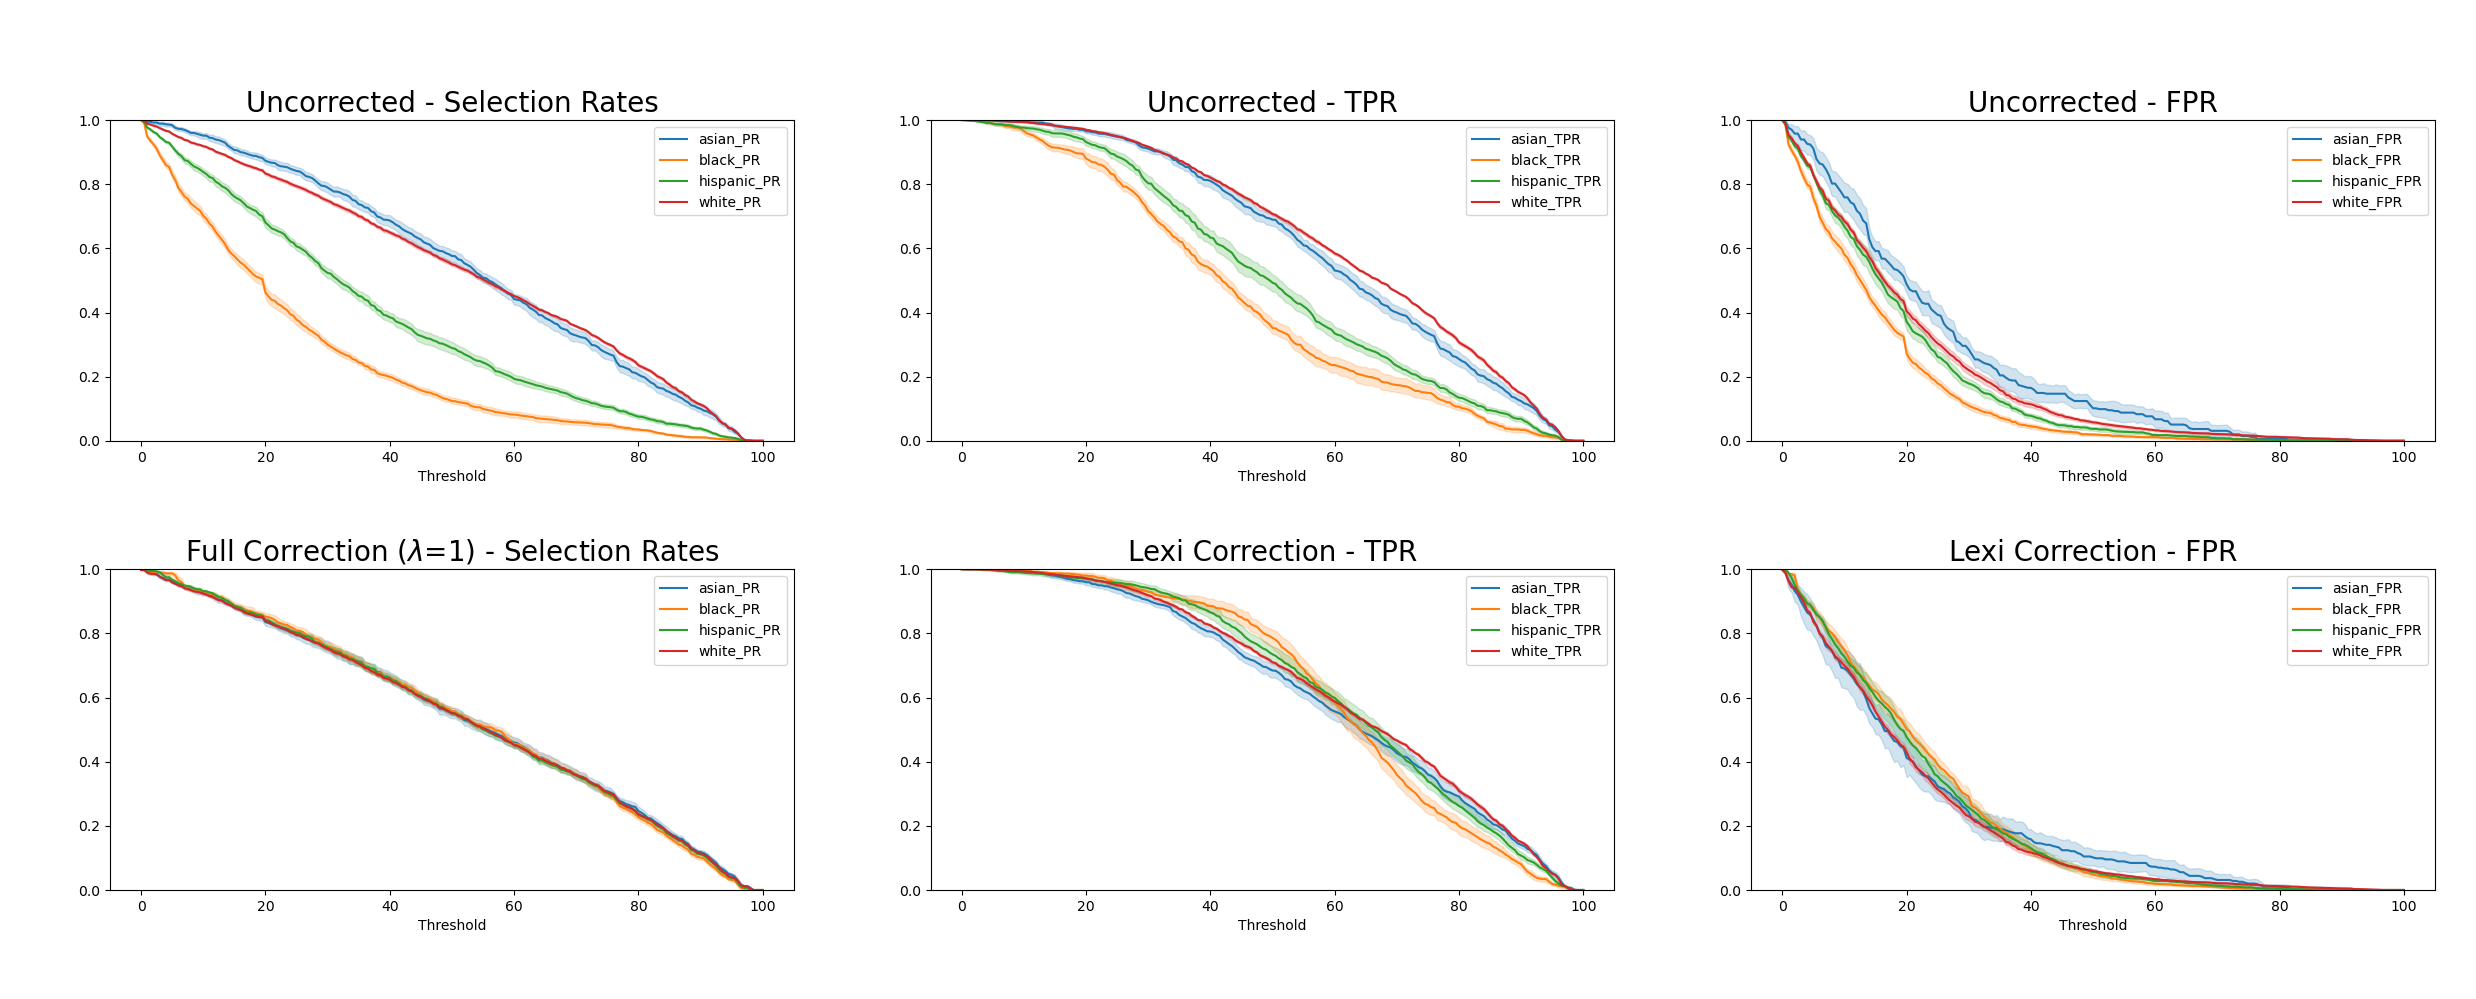
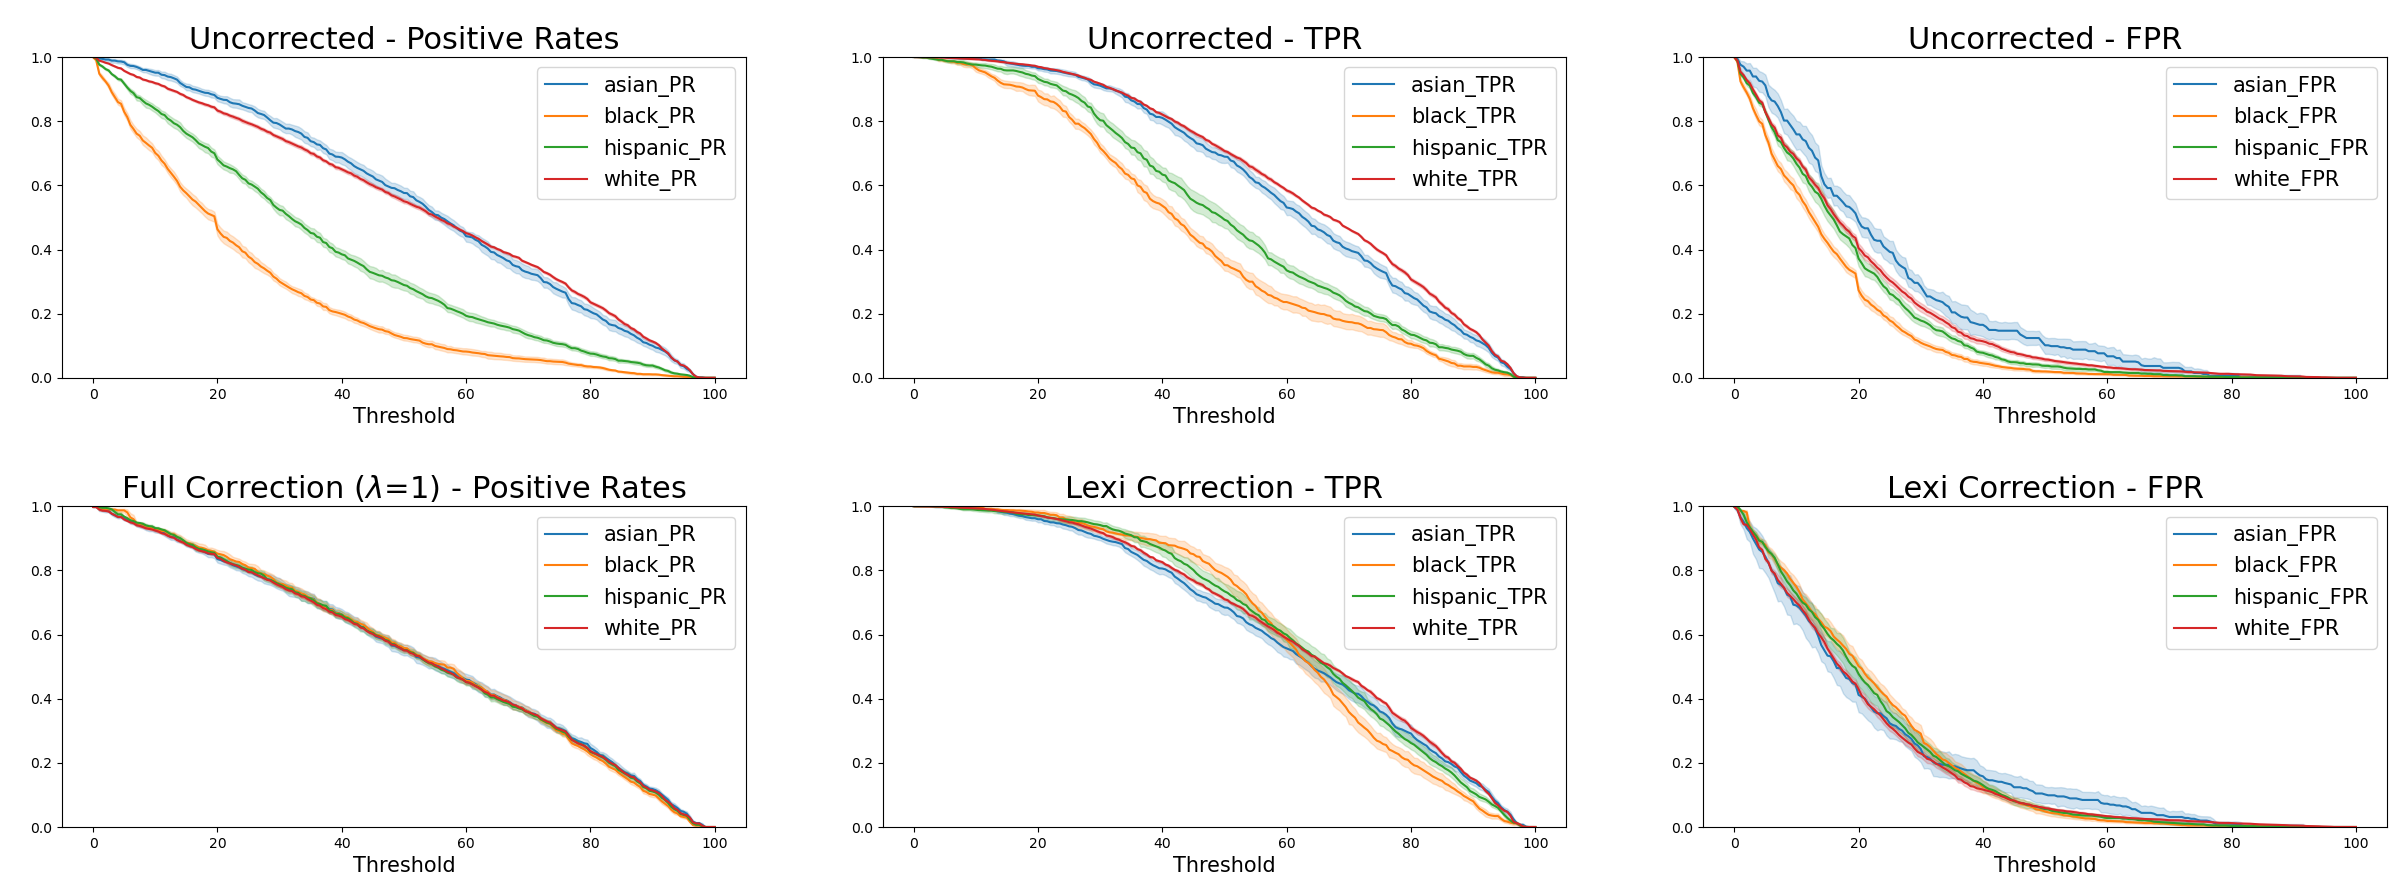
anon

diff --git a/plot.py b/plot.py
@@ -11,15 +11,18 @@ def plot_result(resultdf, metrics=['positivity_rate_differences', 'tpr_differenc
   if "trial" not in resultdf.columns:
     print("Expected multiple trials! Plotting for the single trial:")
 
+  legend_map = {} if legend_map is None else legend_map
   for metric in metrics:
-    if legend_map is None:
+    if len(legend_map.keys()) < len(metrics):
+      legend_map = {}
       legend_map[metric] = metric
     ax = sns.lineplot(x=resultdf.thresholds, y=np.abs(resultdf[metric]), label=legend_map[metric])
 
-  plt.legend()
+  plt.legend(fontsize=int(size*0.7))
   plt.ylim((0,1))
   # hacky but works
-  ax.set(xlabel = "Threshold")
+  # ax.set(xlabel = "Threshold")
+  ax.set_xlabel("Threshold", fontsize=int(size*0.7))
   ax.set(ylabel = "")
   if title:
     if size:

diff --git a/src/bcmap.py b/src/bcmap.py
@@ -122,7 +122,7 @@ def barycenter(A, weights, bins, reg=1e-3, solver="exact_LP"):
 
     assert np.abs(np.sum(weights) - 1) < 1e-6,  "Sum of weights must add to 1"
 
-    if solver == "kweku":
+    if solver == "anon": # *****
         CDFs = [empiricalCDF(sample,bins) for sample in A] #Get the CDFs for each sample
 
 
@@ -220,7 +220,7 @@ def geometric_adjustment(train_df, test_df, sens_col, score_col, solver, bins, r
 
     # new_repaired_df = pd.concat(repaired_dfs).copy()
 
-    # jess mods to preserve indices
+    # **** mods to preserve indices
     df_repair = test_df.copy()
     for group in test_df[sens_col].unique():
         df_repair.loc[df_repair[sens_col] == group, "repaired_score"] = df_repair.loc[df_repair[sens_col] == group, score_col].apply(

diff --git a/src/bin_postprocess.py b/src/bin_postprocess.py
@@ -28,7 +28,7 @@ def f_postprocess_vectorized(YL, YT, SL, ST):
     
     ST = ST.astype(int)
     
-    # NEW JESSICA 09.01.21
+    # NEW **** 09.01.21
     YL = YL + np.random.uniform(size=len(YL))*0.05
     YT = YT + np.random.uniform(size=len(YT))*0.05  
     # train proper (we can save tmp1 artifact)
@@ -65,7 +65,7 @@ def f_postprocess_vectorized_adjustments(YL, YT, SL, ST):
     
     ST = ST.astype(int)
     
-    # NEW JESSICA 09.05.21
+    # NEW **** 09.05.21
     YL = YL + np.random.uniform(size=len(YL))*0.05
     YT = YT + np.random.uniform(size=len(YT))*0.05  
 

diff --git a/src/lexi.py b/src/lexi.py
@@ -29,7 +29,7 @@ def group_loss_(x, groups, g, t, fudge, ep):
 
 def lexicographicOptimizer(df, attr_col, score_col, shift_col, ep=1e-6):
 
-    df = df.copy().sort_values(by=attr_col) # added jess 1.14.22 - make group order deterministic
+    df = df.copy().sort_values(by=attr_col) # added **** 1.14.22 - make group order deterministic
 
     group_shift = [d[1][shift_col].values.copy() for d in
                    df.groupby(attr_col)]  # collect all the scores for each group from the data

diff --git a/eval.py b/eval.py
@@ -23,7 +23,7 @@ def auc_result_summary(resultdf):
 
 def get_eval_group(labels, scores, groupname):
     """
-    jess 1.14.22 - Written for lex eval 
+    **** 1.14.22 - Written for lex eval 
     """
     pr = []
     tpr = []

diff --git a/src/exact_solver.py b/src/exact_solver.py
@@ -2,7 +2,6 @@ import data
 import numpy as np
 from .bcmap import *
 
-from scipy.optimize import minimize
 from scipy.optimize import minimize_scalar
 
 
